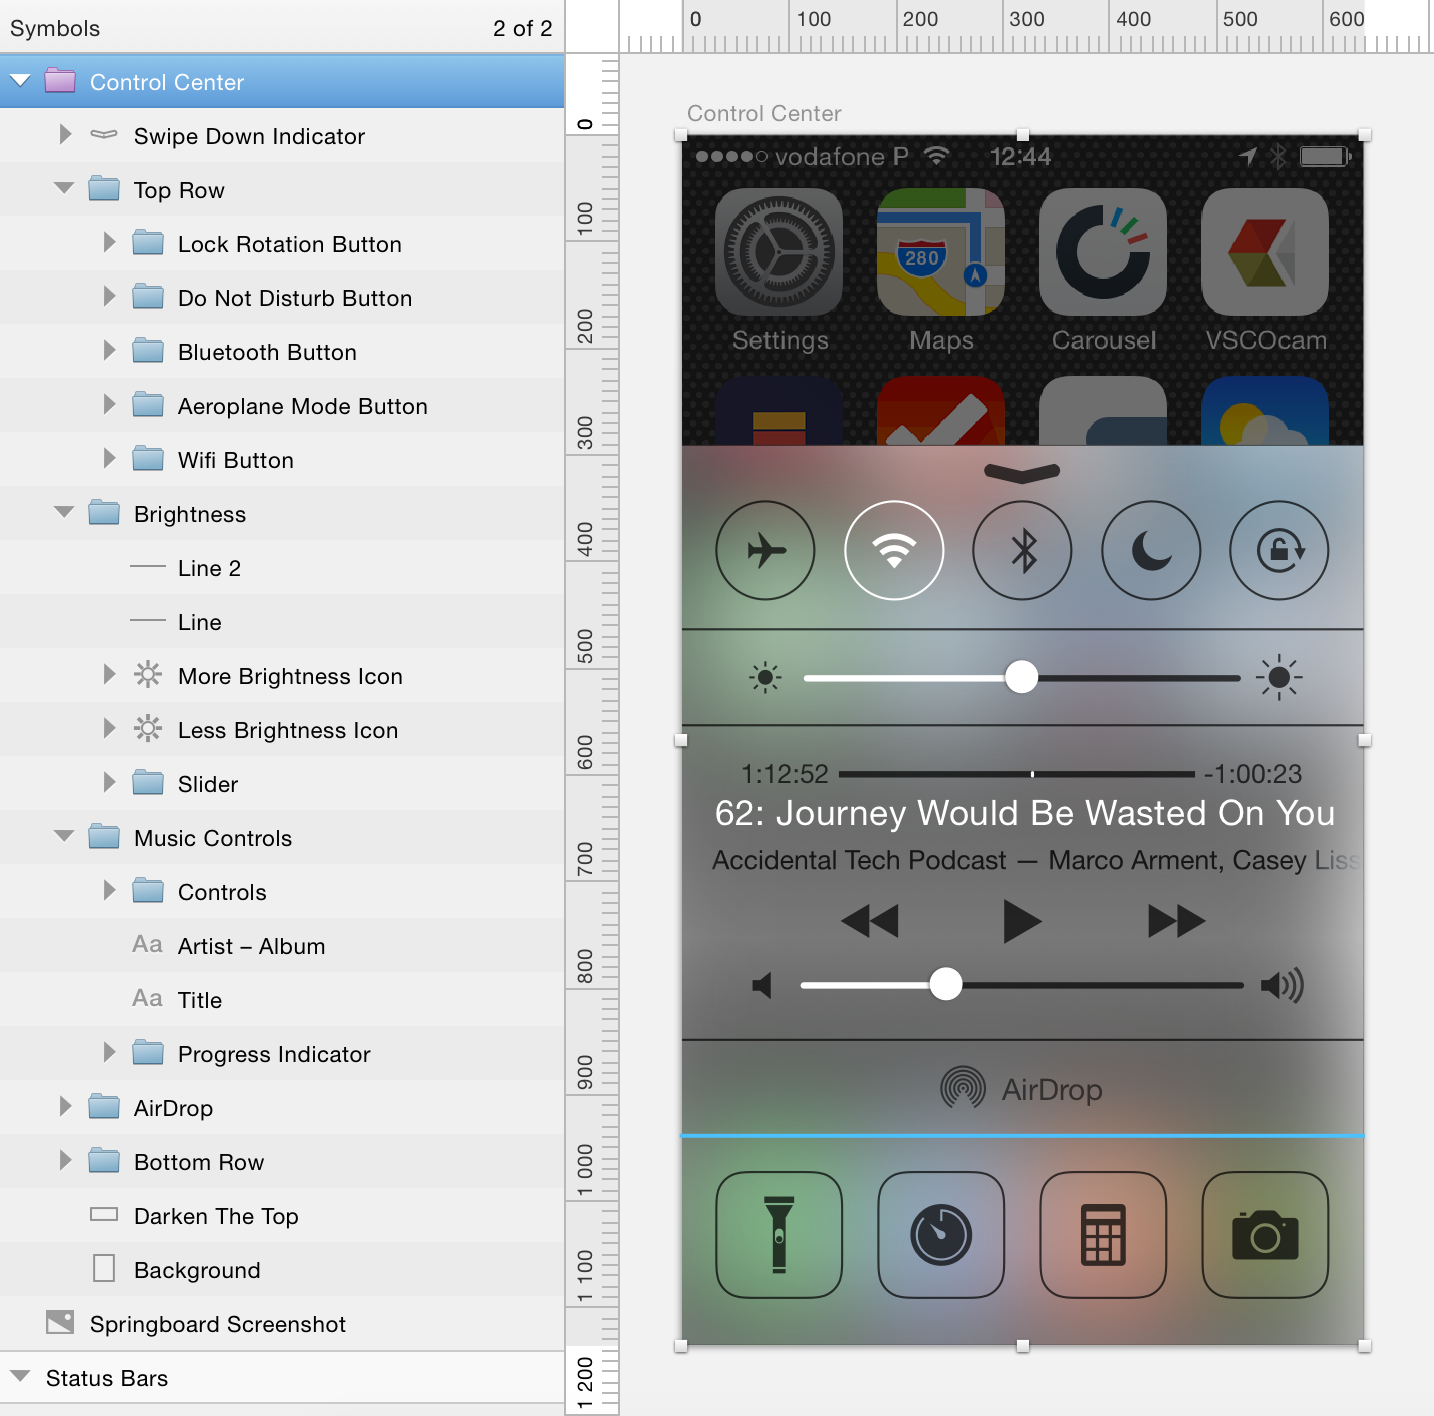
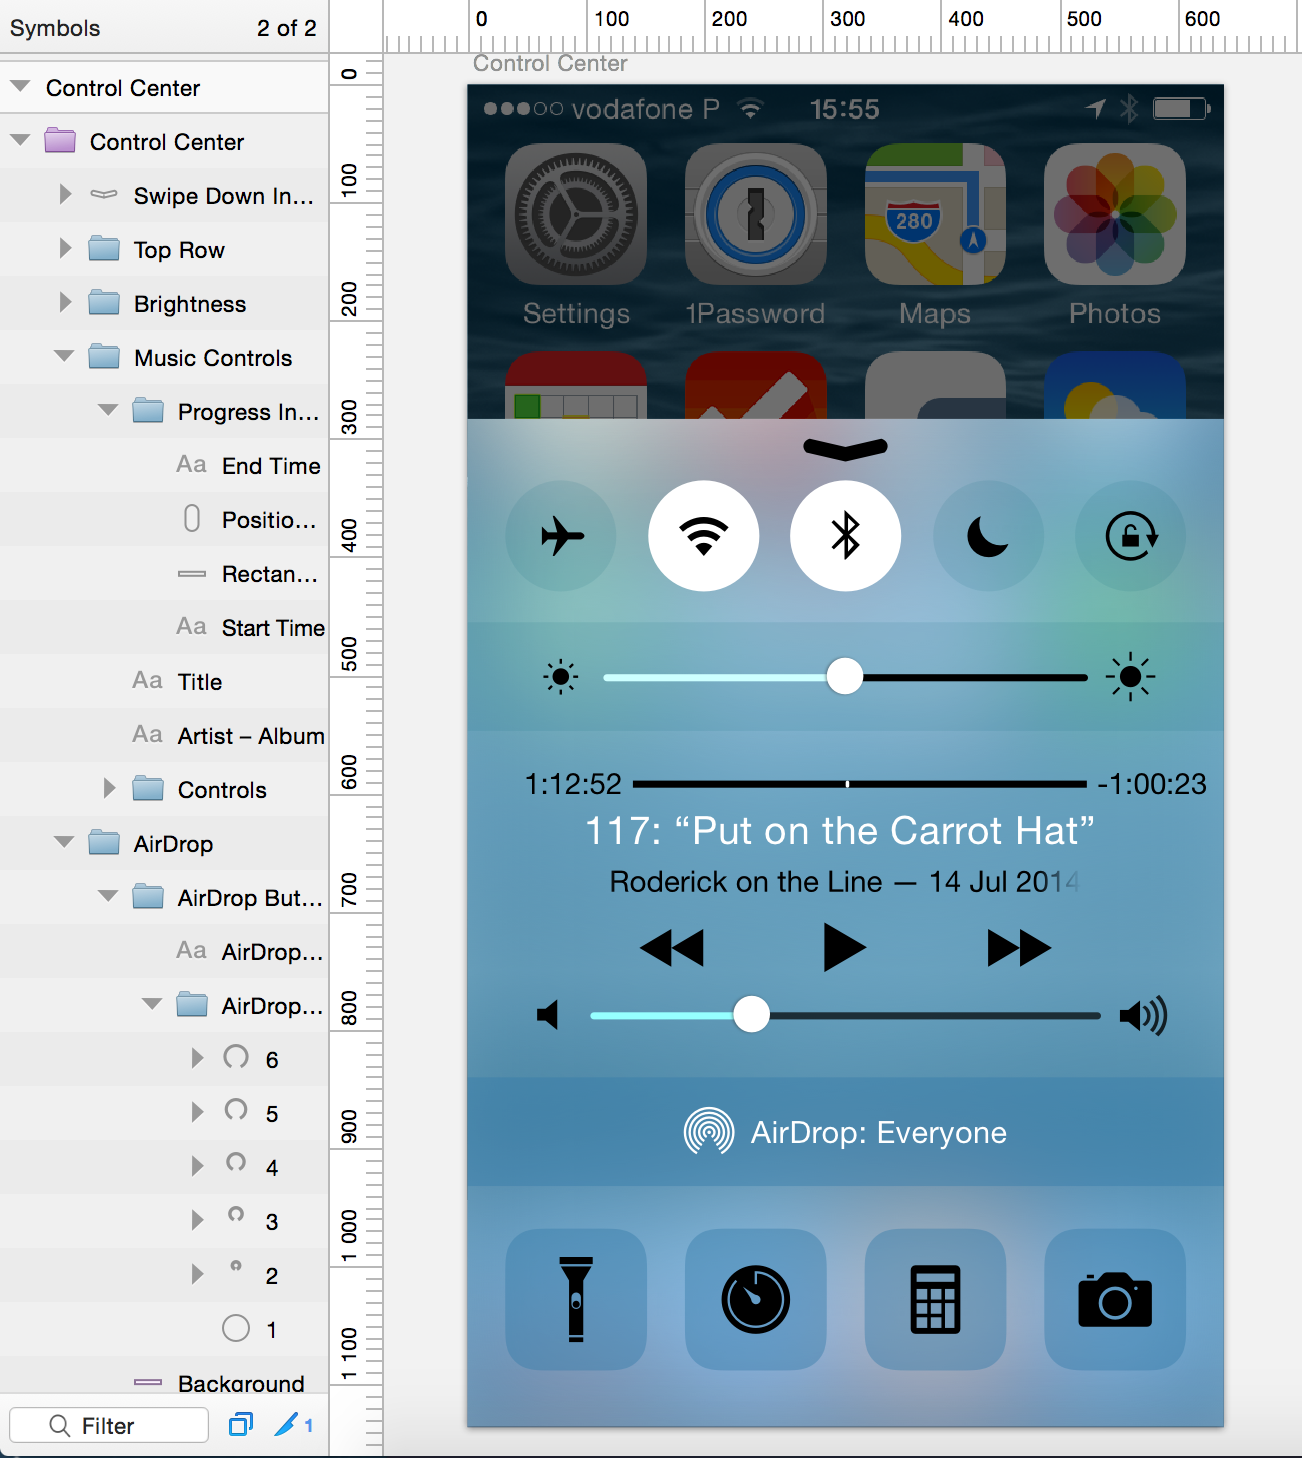
Updated Screenshots and README

diff --git a/README.md b/README.md
@@ -15,6 +15,8 @@ To download simply click the *Download ZIP* button on the right sidebar
 * I will be updating the file to match the beta releases.
 * Feel free to send me some element requests, if I find the time I'll add them to the kit.
 
+###Updated to iOS 8 beta 4
+
 
 ## Elements
 
